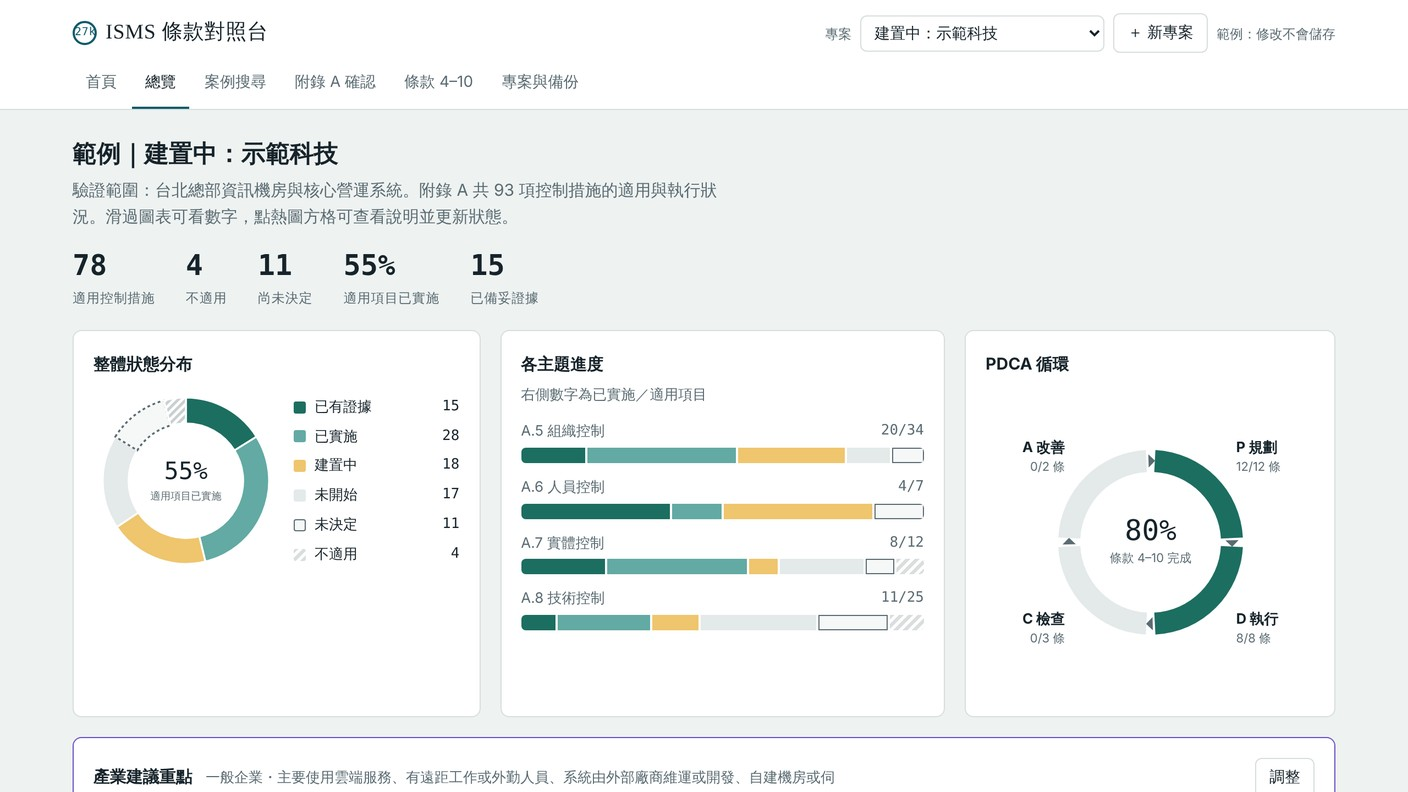
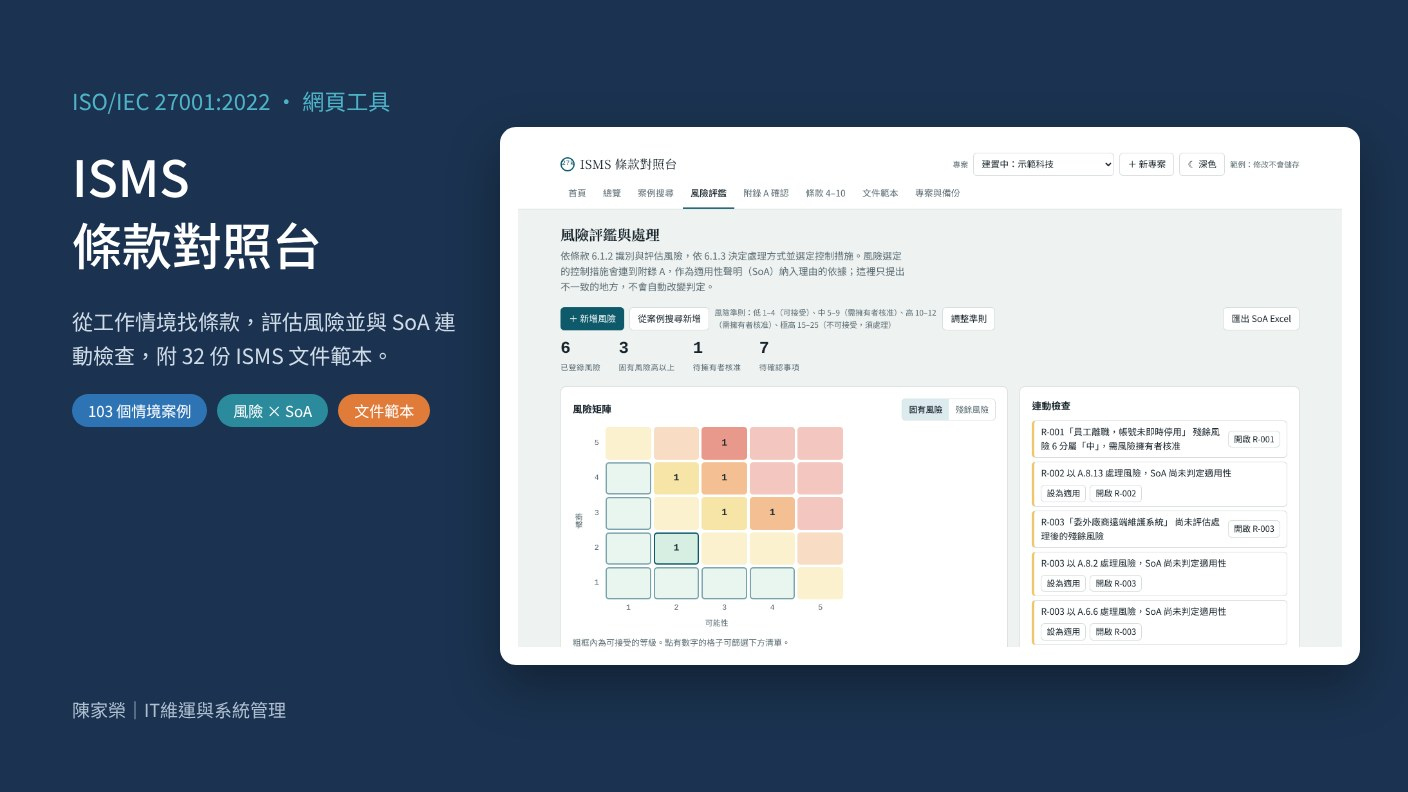
Add files via upload

diff --git a/index.html b/index.html
@@ -79,7 +79,7 @@ footer{font-size:13px;color:var(--muted);padding-block:0 40px}
       <span class="n">03 · 通用工具</span>
       <h2>ISMS 條款對照台</h2>
       <p>依 ISO/IEC 27001:2022 開發的網頁工具。輸入「同事離職」「廠商要遠端維護」等情境即可找到對應控制措施；登錄並評估風險後，依風險結果完成附錄 A 適用性判定，匯出 SoA 與風險登錄表 Excel。</p>
-      <ul><li>53 個實務情境與同義詞搜尋</li><li>風險評鑑（6.1.2／6.1.3）與 SoA 連動，自動找出稽核常見缺口</li><li>依產業與業務特性標示建議重點與台灣法規提示</li><li>資料只存在使用者瀏覽器；元件自行託管、設定 CSP</li><li>54 項單元測試，GitHub Actions 自動執行</li></ul>
+      <ul><li>103 個實務情境與同義詞搜尋，可新增自訂案例</li><li>32 份 ISMS 文件範本（手冊、政策、程序、表單、紀錄）與 Excel 匯入</li><li>風險評鑑（6.1.2／6.1.3）與 SoA 連動，自動找出稽核常見缺口</li><li>依產業與業務特性標示建議重點與台灣法規提示</li><li>資料只存在使用者瀏覽器；元件自行託管、設定 CSP</li><li>80 項單元測試，GitHub Actions 自動執行</li></ul>
       <div class="links"><a class="p" href="https://coloplay1.github.io/isms-mapper/" target="_blank" rel="noopener">開啟 Demo</a><a href="https://github.com/coloplay1/isms-mapper" target="_blank" rel="noopener">GitHub 原始碼</a></div>
     </div>
   </article>
